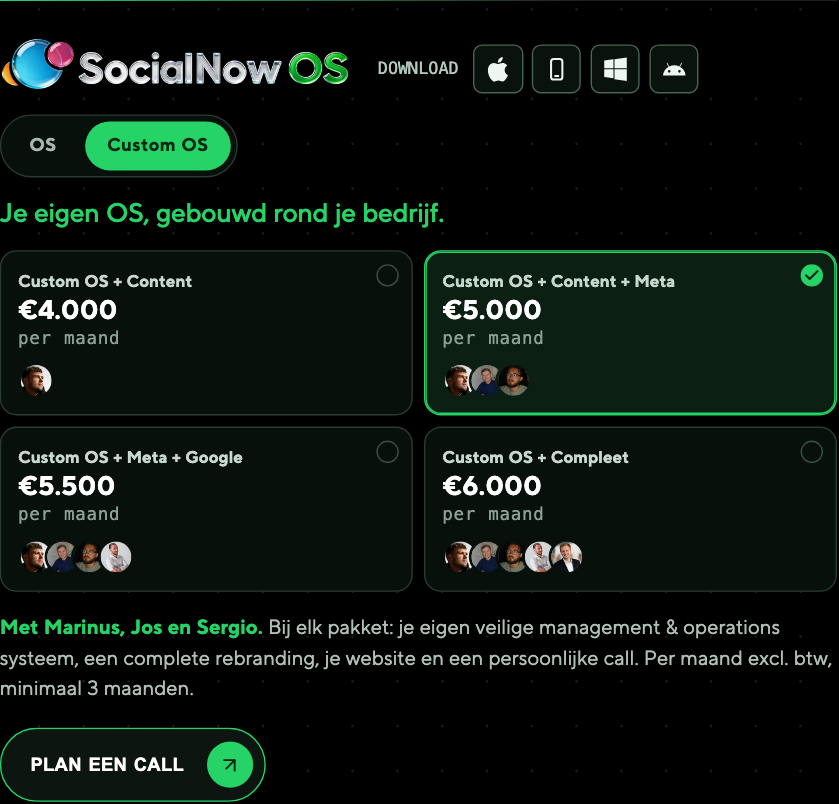
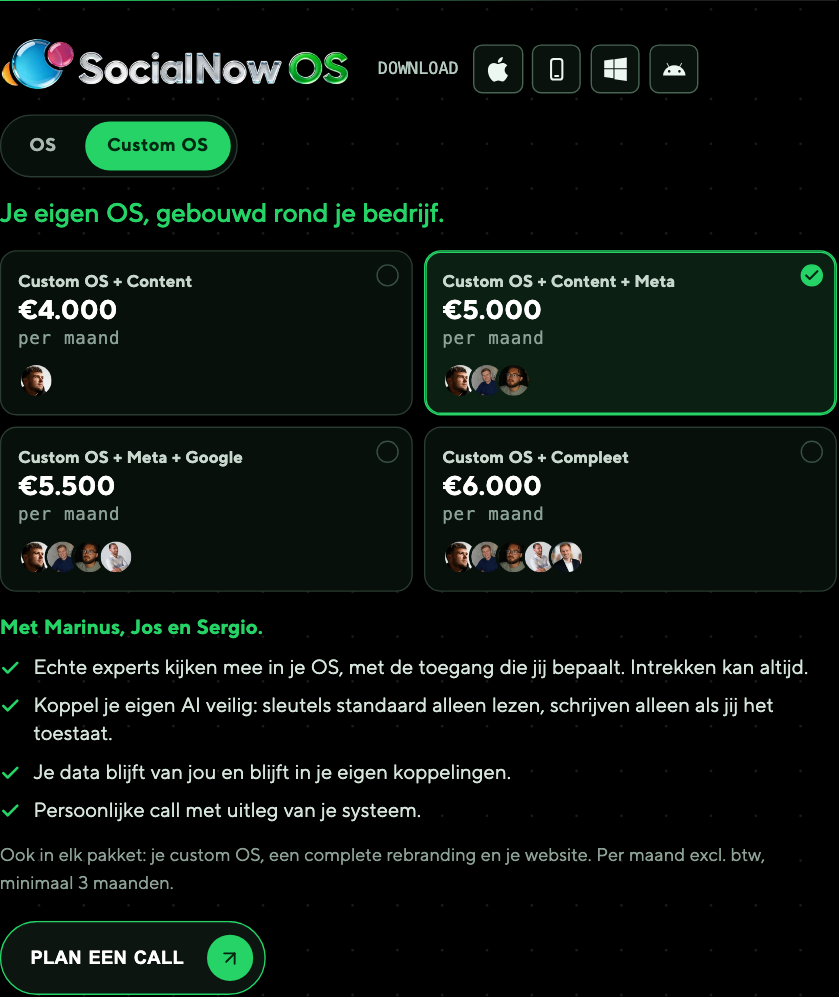
Header B: bij Custom OS een korte lijst met wat nu live staat (experts met jouw toegang, eigen AI veilig koppelen, eigen data, persoonlijke call)

Changed region(s): [[0.0, 0.0311, 1.0, 1.0]]

diff --git a/proposal/HeaderBestaand.tsx b/proposal/HeaderBestaand.tsx
@@ -59,6 +59,12 @@ const HULP = [
 // Daarna: "Bij Custom os liever gewoon de pakketten laten zien of uitspraken van het team." Er staan nog geen echte
 // uitspraken van het team in content.ts (alleen die van Ruben), dus de pakketten: bij elk zit het Custom OS.
 const CUSTOM = HULP.filter(h => !h.los).map(h => ({ ...h, pakket: MAAND.find(m => m.naam === h.naam)! }));
+const VEILIG = [
+  "Echte experts kijken mee in je OS, met de toegang die jij bepaalt. Intrekken kan altijd.",
+  "Koppel je eigen AI veilig: sleutels standaard alleen lezen, schrijven alleen als jij het toestaat.",
+  "Je data blijft van jou en blijft in je eigen koppelingen.",
+  "Persoonlijke call met uitleg van je systeem.",
+];
 const PAKKET = (naam: string) => MAAND.find(m => m.naam === naam);
 const namen = (ids: string[]) => { const n = ids.map(id => TEAM[id].naam.split(" ")[0]); return n.length > 1 ? `${n.slice(0, -1).join(", ")} en ${n[n.length - 1]}` : n[0]; };
 const ONDERDELEN: Record<string, string[]> = {
@@ -140,7 +146,14 @@ export default function HeaderBestaand({ meet }: { meet: (doel: Doel) => void })
                     </button>
                   ))}
                 </div>
-                <p className="bs-uitleg"><strong>Met {namen(CUSTOM.find(c => c.id === custom)!.pakket.team)}.</strong> Bij elk pakket: je eigen veilige management &amp; operations systeem, een complete rebranding, je website en een persoonlijke call. Per maand excl. btw, minimaal 3 maanden.</p>
+                {/* Marinus: "en echte experts die mee kunnen kijken met de toegang die jij zelf bepaald." en daarna "Meer zo iets.": een korte
+                    lijst, alleen wat nu live staat in het OS (teamrollen met direct intrekken, OS-PR #134; eigen AI via MCP/API met
+                    sleutels standaard alleen lezen, #135). Budgetakkoord via Attesso is nog niet live en staat er daarom niet bij. */}
+                <p className="bs-uitleg bs-met"><strong>Met {namen(CUSTOM.find(c => c.id === custom)!.pakket.team)}.</strong></p>
+                <ul className="bs-punten">
+                  {VEILIG.map(punt => <li key={punt}><Check size={15} strokeWidth={3} aria-hidden="true" />{punt}</li>)}
+                </ul>
+                <p className="bs-uitleg bs-uitleg-klein">Ook in elk pakket: je custom OS, een complete rebranding en je website. Per maand excl. btw, minimaal 3 maanden.</p>
                 <div className="action os-account-actions">
                   <button type="button" className="pill" aria-haspopup="dialog" onClick={() => { meet("custom_os"); openPlanCall({ onderdelen: ONDERDELEN[custom] }); }}><span>Plan een call</span><span className="arrow"><ArrowUpRight size={17} /></span></button>
                 </div>

diff --git a/proposal/header-bestaand.css b/proposal/header-bestaand.css
@@ -51,3 +51,8 @@
 .sn-site .sn-bestaand .bs-team img{width:26px;height:26px;margin-left:-7px;border-radius:50%;border:2px solid #07100b;object-fit:cover;background:#13221a}
 .sn-site .sn-bestaand .bs-team img:first-child{margin-left:0}
 .sn-site .sn-bestaand .bs-pakket[aria-checked=true] .bs-team img{border-color:#0b1f13}
+.sn-site .sn-bestaand .bs-met{min-height:0;margin:14px 0 8px}
+.sn-site .sn-bestaand .bs-punten{display:grid;gap:7px;margin:0;padding:0;list-style:none}
+.sn-site .sn-bestaand .bs-punten li{display:flex;align-items:flex-start;gap:9px;font-size:14.5px;line-height:1.4;color:#d6e5dc;text-align:left}
+.sn-site .sn-bestaand .bs-punten svg{flex:0 0 15px;margin-top:3px;color:var(--green)}
+.sn-site .sn-bestaand .bs-uitleg-klein{min-height:0;margin:12px 0 18px;font-size:13px;color:#8da297}
